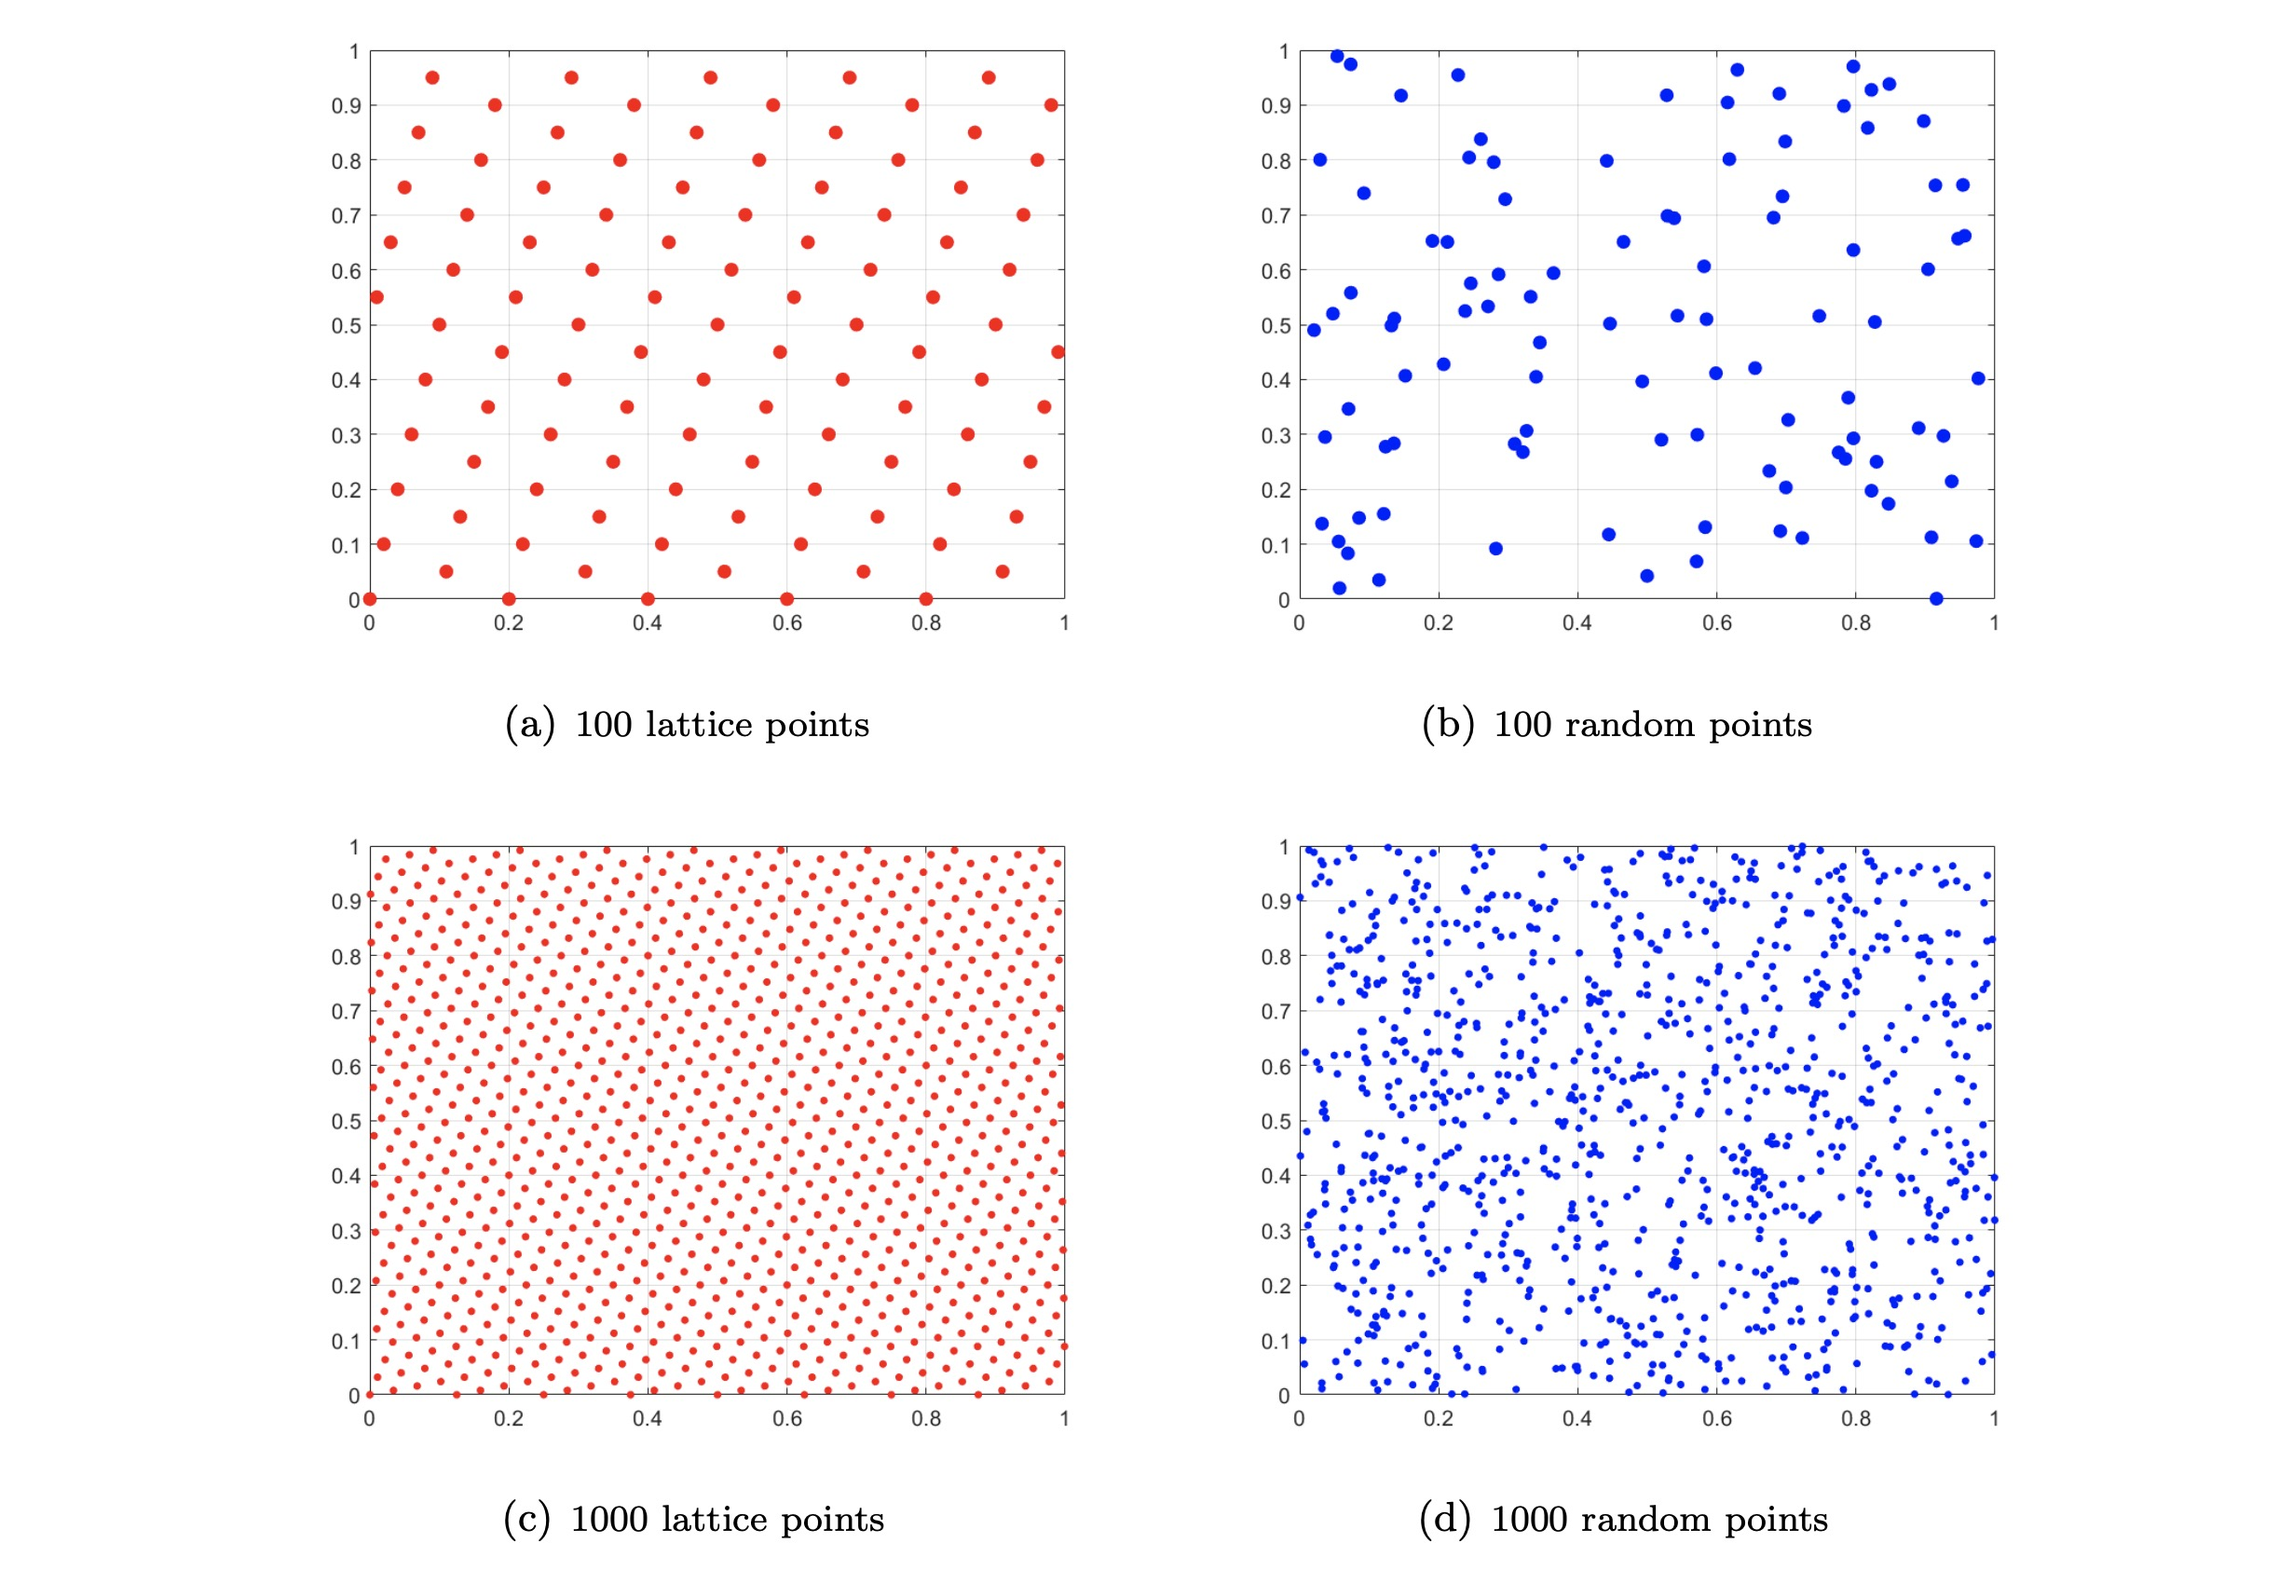
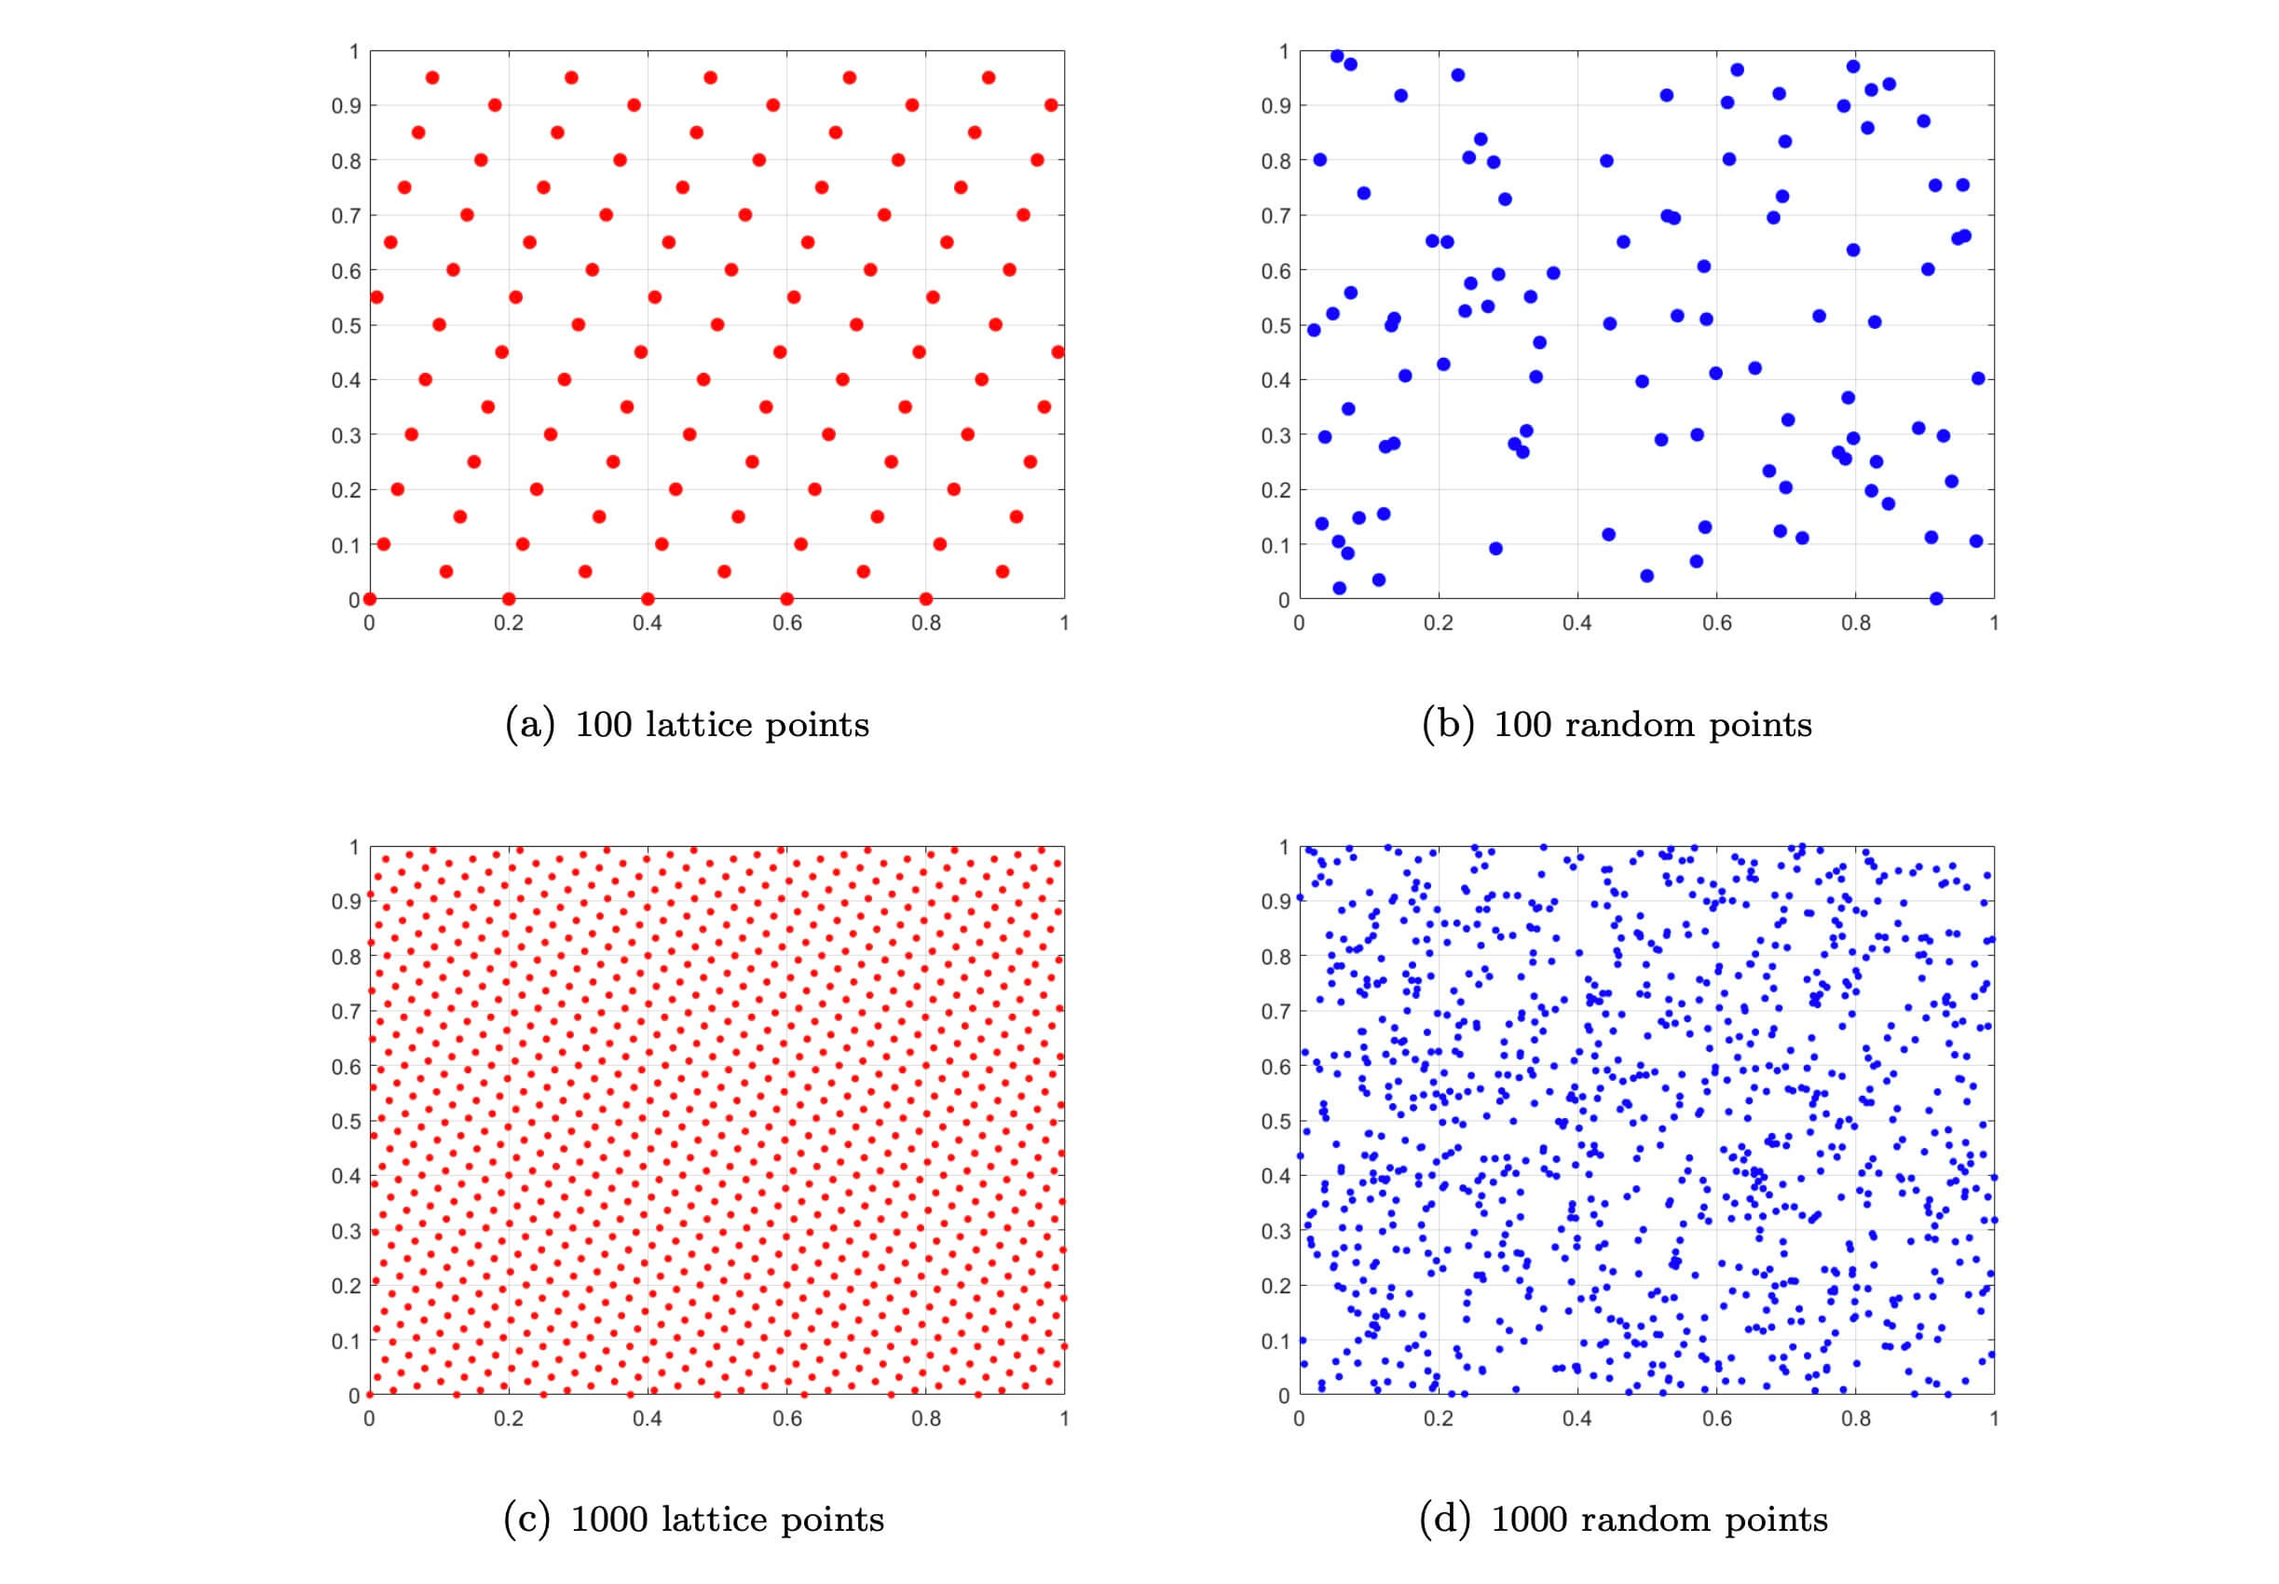
compress images

diff --git a/index.html b/index.html
@@ -251,7 +251,7 @@
             <article class="columns group group-1">
               <div class="column is-3">
                 <figure class="image">
-                  <img src="images/publications/2015_icassp_yuan.png">
+                  <img src="images/publications/2015_icassp_yuan.jpeg">
                 </figure>
               </div>
               <div class="column">
